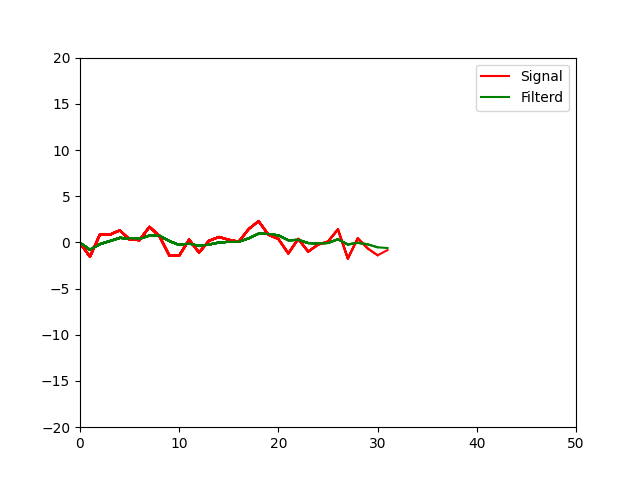
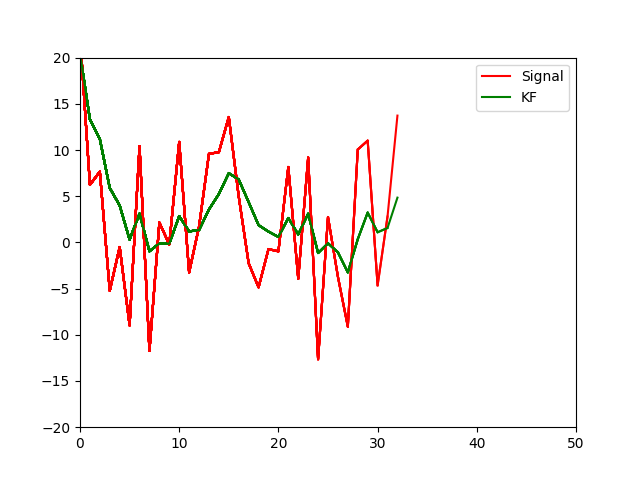
Added

Changed region(s): [[0.125, 0.125, 0.625, 0.75], [0.8125, 0.125, 0.875, 0.2188]]

diff --git a/kalman_filter.py b/kalman_filter.py
@@ -49,7 +49,7 @@ if __name__=="__main__":
             plt.ylim([-20,20])
             if _>50:
                 plt.xlim([50, 100])
-            sense = np.random.randn()
+            sense = 10*np.random.randn()
             y.append(sense)
 
             k.predict()         #prediction step
@@ -57,6 +57,6 @@ if __name__=="__main__":
 
             yk.append(k.X)
             plt.plot(x,y, 'r', x, yk, 'g')
-            plt.legend(["Signal", "Filterd"])
+            plt.legend(["Signal", "KF"])
             plt.show()
             plt.pause(0.1)
